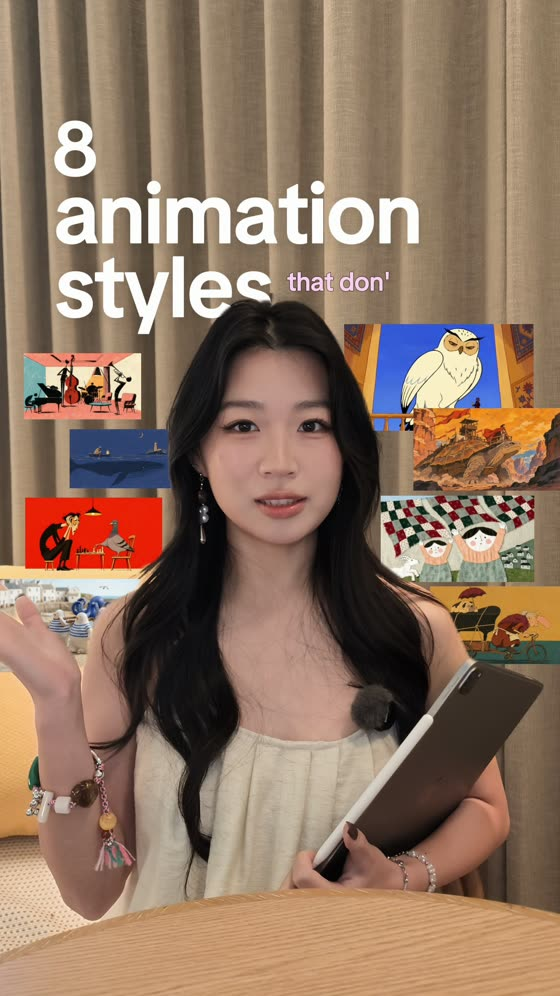
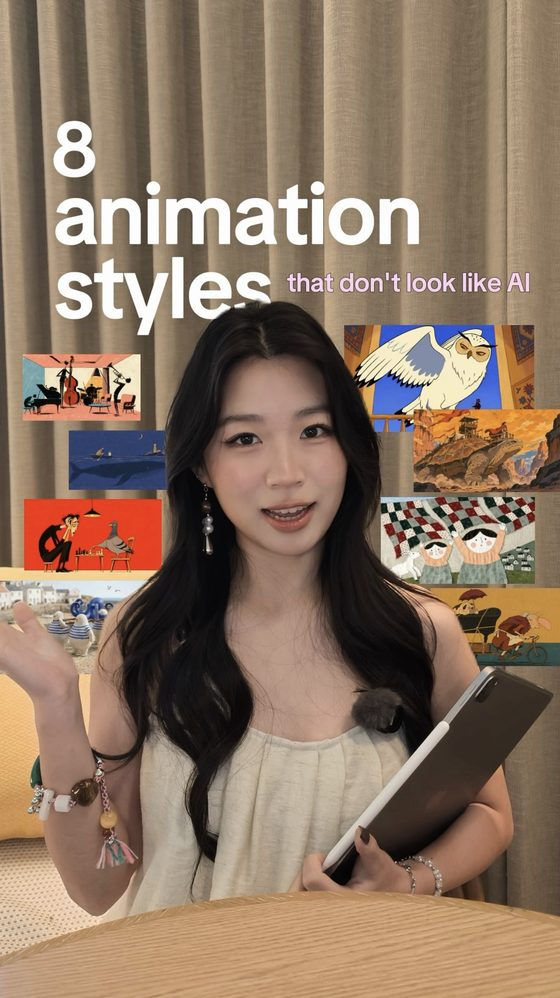
Animation page: add reel link and cover

diff --git a/share/animation/index.html b/share/animation/index.html
@@ -348,7 +348,7 @@
 
 /* 🔴 把 reel 链接填这里,填了就自动嵌进去。留空就显示占位框
    例:const REEL = 'https://www.instagram.com/reel/DxxxxxxxxxX/'; */
-const REEL = '';
+const REEL = 'https://www.instagram.com/reel/DgGuxaMx4-c/';
 
 /* 封面图 + 播放键,点一下去 Instagram 看。
    不用 Instagram 自己的 embed:它是一张带头像栏和底栏的卡片,最窄也要 320px,
